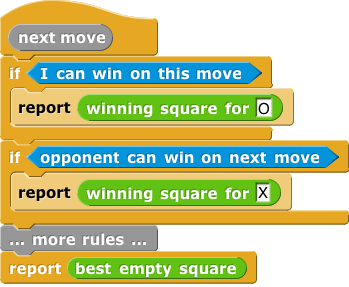
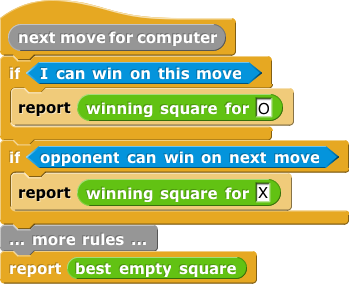
5.4 TG

Changed region(s): [[0.2865, 0.0279, 0.6877, 0.1951], [0.2579, 0.0, 0.2865, 0.0279]]

diff --git a/cur/teaching-guide/U5/lab-pages/4-unsolvable-undecidable-problems.html b/cur/teaching-guide/U5/lab-pages/4-unsolvable-undecidable-problems.html
@@ -8,45 +8,12 @@
     
     <body>
         <h2>Lab 4: Unsolvable and Undecidable Problems</h2>
-		<p>The idea that some problems do not have solutions is credible enough to students, but the idea that some <em>cannot ever have</em> solutions, and that we can prove that, is harder.
-        <div class="todo">
-        <p>We introduce the notion through a slightly different idea at first. Students solve Liar/Truthteller logic puzzles to see that some are tricky but solvable and others set up inherently contradictory situations in which neither true nor false can apply. Then they see the more complex idea: problems for which truth or falsity can apply, but for which the state cannot (ever) be logically determined. Last, they explore the halting problem: Can an algorithm be developed that will check any other algorithm to see if it will halt and return a result?</p>
 		<p>In earlier labs of this unit, we've explored <em>practical</em> limits to computation. In some cases, it's easy to program a simple algorithm for a problem, but the program would take centuries to solve the problem even for not-so-big input values. Students often find that idea easy to understand (although they may not immediately see why an exponential-time algorithm will withstand even dramatic speedups in computer hardware). This lab asks them to understand something harder: that some problems can't be solved, period.</p>
-        </div>
-		That is, students may find it hard to accept that some problems are unsolvable <em>in principle.</em> What if some entirely new model of computation comes along that is not just faster but different in kind, the way quantum computing is different today? Tachyonic computing, or some such thing? (We already know enough about quantum computing to understand that it doesn't influence unsolvability.)</p>
-		<p><strong>Page 1: Logical Inconsistency.</strong></p>
-		<p>It's to address that difficulty that we begin with a detour into logic puzzles&mdash;specifically, liar-and-truthteller puzzles. (The student page uses the slightly awkward "false-teller" to avoid digressions into the psychology of liars, but you might want to look up Martin Gardner's <a href="http://www.worldcat.org/title/hexaflexagons-and-other-mathematical-diversions-the-first-scientific-american-book-of-puzzles-games/oclc/18018285" target="_blank">discussion</a> of the "which way to the village" problem that ends with the delightful suggested question, "Did you know that they're giving away free beer in the village?" You ignore the answer and follow the native.)  In this context, students find the idea of an unanswerable question easier to grasp.</p>
-		<p>But paradox isn't the important thing for students to learn on that first page. (The unsolvable problem presented on the second page isn't paradoxical.) Rather, it's <em><strong>proof by contradiction</strong></em> that's important. Gamal explains this technique in the first dialog. If your students have studied enough algebra, remind them of the proof that &radic;2 isn't a ratio of integers.</p>
-		<p> <strong>Page 2: An Undecidable Problem.</strong></p>
-		<p>The second page starts by introducing Alan Turing. No serious introduction to computer science can avoid discussing Turing, the patron saint of computer science, and arguably the founder of the field. (Why not Babbage and Lovelace? Because computer science isn't about the design and construction of computers; it's about a general understanding of what computers can accomplish. That's what Turing, along with the less-well-known Alonzo Church, started.)</p>
-		<p>The story of how Turing enabled the Allied victory against the Nazis is thrilling and engaging. It's told, among other sources, in the book <em>Alan Turing: The Enigma</em> by Andrew Hodges. (The link also gives information about other resources on Turing.) Researching Turing's life could be a good extra credit assignment that doesn't involve programming.  Students may also be interested in Joan Clarke, the only woman among the Bletchley Park mathematicians. (The code breakers also employed a large number of women in more clerical positions.)</p>
-		<p>The student page does <em>not</em> go into the end of  Turing's life: He was hounded to death by an ungrateful British government because of his homosexuality. We omit that part of the story because we're aware that there are parts of the United States where even teaching evolution is considered controversial. But if you are lucky enough to teach in an environment that will allow it, we urge you to make his sentencing to chemical castration because of social intolerance part of the classroom discussion.</p>
-		<p><strong>The Halting Theorem</strong></p>
-		<p>In 1928, mathematician David Hilbert posed the "decision problem," asking whether any statement in certain mathematical theories (in the sense of formal axiom systems, not "things we don't know for sure") can be proven true or false. (This is <em>not</em> one of the numbered list of problems Hilbert famously posed in 1900 as tasks for the coming century.) Turing's work was motivated in large part by this problem; his insight was that to solve the problem, he would need a way to describe what "can be" done effectively. In short, he had to invent the idea of an algorithm. He did this with what is now called the <em>Turing machine,</em> a kind of computer too primitive to be of practical use, but just for that reason, simple enough to reason about.</p>
-		<p>Turing's 1936 paper was truly remarkable. Not only did he come up with the idea of effective algorithms, he also had to invent the idea that a computer program (the concrete representation of an algorithm) is also data, on which the computer can operate.</p>
-		<p>(Turing was actually anticipated, slightly, by Alonzo Church, the patron saint of Snap<em>!</em>, who developed a very different formalization, namely the <em>lambda calculus,</em> the  study of functions as data. It's Church's work that led to John McCarthy's invention of the Lisp programming language and to the functional programming style central to BJC. Turing is better known than Church partly because of his war work, but also because the imperative, sequential programming style is more widely understood than functional programming. This is just starting to change because of the importance of functional programming to parallel computation.)</p>
-		<p><strong>Proving the Halting Theorem</strong></p>
-		<p>As suggested above, we use proof by contradiction to show that a certain question can't be answered <em>in general:</em> Will a certain computer program, given a certain input, report a result in a finite amount of time?</p>
-		<p>
-        	The "in general" part is important. Of course we can answer the question for certain particular programs. This one halts for any input:<br />
-        	<img class="indent" src="/bjc-r/img/5-algorithms/three-fn.png" alt="three(x) reports 3">
-        </p>
-		<p>
-            This one never halts for any input:<br />
-            <img class="indent" src="/bjc-r/img/5-algorithms/loop-fn.png" width="158" height="137" alt="loop(x): forever [wait 1 secs]">
-        </p>
-		<p>
-            And this one halts (reports a value) for any input except 87:<br />
-            <img class="indent" src="/bjc-r/img/5-algorithms/weird-fn.png" width="158" height="222" alt="weird(x): if (x=87) then forever [wait 1 secs]; report 3">
-        </p>
-		<p>The question is whether we can devise a test that will tell us whether <em>any</em> given function will report a value for <em>any</em> given input. To make a proof by contradiction, we start by supposing that there is such a <code>halts?</code> function. Then we show that there has to be at least one function, and one input to that function, for which <code>halts?</code> fails: If we call <code>halts?</code> with the function <code>tester</code> as both the function to be tested and the input to give that function, any result reported by <code>halts?</code> will be wrong.</p>
-		<p>Showing that the result has to be wrong involves a case analysis like the ones used to solve the logic puzzles on page 1. Suppose <code>halts?</code> reports <code>True</code>, telling us that <code>tester(tester)</code> succeeds at reporting a value. Then <code>tester</code> takes the first branch of the <code>if</code>, and so it loops forever. (We used <code>repeat until</code> to create the infinite loop, but that's not important; it could just be <code>forever</code> as in the pictures above.) Thus <code>halts?</code> gave the wrong answer. Now suppose instead that <code>halts?</code> reports <code>False</code>, thereby claiming that <code>tester(tester)</code> loops forever. But in that case, <code>tester</code> takes the <code>else</code> branch, and reports <code>True</code>. (Don't be confused; it doesn't matter <em>what</em> value <code>tester</code> reports, just that it reports <em>some</em> value. But it <em>does</em> matter what value <code>halts?</code> reports.)</p>
-		<p>The proof is much easier for us than it was for Turing, because we have the advantage of an advanced programming language that allows procedures to be used as input values! What Turing had to work with was a particularly simple-minded machine language, encoded in the ones and zeros some people like so much. He had to work out how to encode a program, and then how to write <em>another</em> program that could examine the first one. Church's proof of the Halting Theorem looked much more like ours than like Turing's, because he had, and bequeathed to us, a notation for functions of functions.</p>
-<!--		<p>Some problems  look like they should have clear and definitive yes/no or true/false answers but, in actuality, don't. In simple cases, the lack of a definitive answer is the result of a paradox, and students can complete the proof to show that the "answer" doesn't exist because the statement is <em>neither</em> true <em>nor</em> false. But situations also exist in which it <em>could</em> be either, but we don't know which. Those fall into two categories. Computational problems can be so difficult that no solution <em>has</em> been found, but it's not clear that no solution<em> could</em> potentially be found some day. Others have been shown to be undecidable: we can prove that we will <em>never</em> have a way to solve the problem. </p>
+
+	<p>Students may find it hard to accept that some problems are unsolvable <em>in principle.</em> What if some entirely new model of computation comes along that is not just faster but different in kind, the way quantum computing is different today? &quot;Tachyonic computing,&quot; or some such thing? (We already know enough about quantum computing to understand that it doesn't influence unsolvability.)<!--		<p>Some problems  look like they should have clear and definitive yes/no or true/false answers but, in actuality, don't. In simple cases, the lack of a definitive answer is the result of a paradox, and students can complete the proof to show that the "answer" doesn't exist because the statement is <em>neither</em> true <em>nor</em> false. But situations also exist in which it <em>could</em> be either, but we don't know which. Those fall into two categories. Computational problems can be so difficult that no solution <em>has</em> been found, but it's not clear that no solution<em> could</em> potentially be found some day. Others have been shown to be undecidable: we can prove that we will <em>never</em> have a way to solve the problem. </p>
 		<p>As an introduction to this challenging content, students solve Liar/Truthteller logic puzzles to see that some are tricky but solvable, and others set up inherently contradictory situations in which neither T nor F can apply. They also explore the halting problem—can an algorithm be developed that will check <em>any</em> other algorithm to see if it will halt and return a result—to appreciate solvable vs. unsolvable and undecidable problems.</p>  
-        -->
- 
-        <h3>Pacing:</h3>
+        -->    </p>
+	<h3>Pacing:</h3>
 		<div>
 			The 2 lab pages could be split across 2-4 days (<strong>70-140 minutes</strong>). Expected times to complete follow:
 			<ul>
@@ -58,33 +25,87 @@
         <h3>Lab Pages</h3>
 		<div>
 			<ul>
-				<li>
-					<strong>Page 1: Logical Inconsistency.</strong>
-					<ul>
-						<!--<li>
+			  <li>
+				<strong>Page 1: Logical Inconsistency.</strong></li>
+				
+			  <ul>
+			    <!--<li>
 							<strong>Learning Goals:</strong>
 							<ul>
 								<li></li>
 								<li></li>
 							</ul>
 						</li>-->
-						<li><strong>Tip:</strong> The logic puzzles can be done in small groups, but have a whole-class discussion at the end to be sure everyone understands the idea of proof by contradiction.</li>
-					</ul>
-				</li>
-                <li>
-					<strong>Page 2: An Undecidable Problem.</strong>
-					<ul>
-						<!--<li>
-							<strong>Learning Goals:</strong>
-							<ul>
-								<li></li>
-								<li></li>
-							</ul>
-						</li>-->
-						<li><strong>Tip:</strong> The second page will mostly reading and discussion; by the nature of a proof by contradiction, there are no other examples students can try individually.</li>
-					</ul>
-				</li>
-			</ul>
+			    <li><strong>Learning goals:</strong>
+			      <ul>
+			        <li>Students will understand and be able to use <em>proof by contradiction.</em></li>
+			        <li>In particular, they will be able to solve liar/truthteller logic puzzles.</li>
+		          </ul>
+			    </li>
+			    <li><strong>Tips:</strong> 
+			      <ul>
+			        <li>There's nothing about computers or algorithms on this page, but don't lose sight of why it's here: In order to understand page 2, which<em> is</em> about algorithms, they need not to be thrown by proof by contradiction.</li>
+			        <li>Students solve Liar/Truthteller logic puzzles to see that some are tricky but solvable and others set up inherently contradictory situations in which neither true nor false can apply. Then they see the more complex idea: problems for which truth or falsity can apply, but for which the state cannot (ever) be logically determined. In this context, students find the idea of an unanswerable question easier to grasp.</li>
+			        <li>Paradox <em>isn't</em> the important thing for students to learn on this page. (The unsolvable problem presented on the second page isn't paradoxical.) Rather, it's <em><strong>proof by contradiction</strong></em> that's important. Gamal explains this technique in the first dialog. If your students have studied enough algebra, remind them of the proof that &radic;2 isn't a ratio of integers.</li>
+			        <li>The student page uses the slightly awkward "false-teller" to avoid digressions into the psychology of liars, although <em>you'll</em> enjoy Martin Gardner's <a href="http://www.worldcat.org/title/hexaflexagons-and-other-mathematical-diversions-the-first-scientific-american-book-of-puzzles-games/oclc/18018285" target="_blank">discussion</a> of the "which way to the village" problem that ends with the delightful suggested question, "Did you know that they're giving away free beer in the village?" You ignore the answer and follow the native.</li>
+			        <li>The logic puzzles can be done in small groups, but have a whole-class discussion at the end to be sure everyone understands the idea of proof by contradiction.</li>
+		          </ul>
+			    </li>
+		      </ul>
+		      <li><strong>Page 2: An Undecidable Problem.</strong>
+	            <ul>
+	              <li><strong>Learning goals:</strong>
+                    <ul>
+                      <li>Students will understand that some computational problems can't ever be solved, no matter how good the computers become.</li>
+                      <li>Specifically, students will understand that the Halting Problem is one that can't be solved, and will understand that we can <em>prove</em> that.</li>
+                      <li>Students will appreciate that Turing proved this theorem at a time when practical computers barely existed, and that that was a huge advance in human understanding.</li>
+                    </ul>
+	              </li>
+	              <li><strong>Tips about Alan Turing:</strong>
+	                <ul>
+	                  <li>The second page starts by introducing Alan Turing. No serious introduction to computer science can avoid discussing Turing, the patron saint of computer science, and arguably the founder of the field. 
+	                    <ul>
+	                      <li><small>Why not Babbage and Lovelace? They're very important, too, but they weren't able to build the Analytical Engine, and so their ideas were largely forgotten until Turing reinvented them in a different form. Also. computer science isn't about the design and construction of computers; it's about a theoretical understanding of what computers can accomplish. That's what Turing, along with the less-well-known Alonzo Church, started.</small></li>
+                        </ul>
+	                  </li>
+	                  <li>Although it's not directly related to this lab, the story of how Turing enabled the Allied victory against the Nazis is thrilling and engaging. It's told, for example, in the book <a href="http://www.turing.org.uk/book/" target="new"><em>Alan Turing: The Enigma</em></a> by Andrew Hodges. (The link also gives information about other resources on Turing.) Researching Turing's life could be a good extra credit assignment that doesn't involve programming.  Students may also be interested in Joan Clarke, the only woman among the Bletchley Park mathematicians. (The code breakers also employed a large number of women in more clerical positions.)</li>
+<div class="comment">Yes, Mary, we <em>must</em> say this, and we <em>must</em> say "we" in this context.</div>
+	                  <li>The student page does <em>not</em> go into the end of  Turing's life: He was hounded to death by an ungrateful British government because of his homosexuality. We omit that part of the story because we're aware that there are parts of the United States where even teaching evolution is considered controversial. But if you are lucky enough to teach in an environment that will allow it, we urge you to make his sentencing to chemical castration because of social intolerance part of the classroom discussion.	                  </li>
+                    </ul>
+	              </li>
+	              <li><strong>Tips about the Halting Theorem:</strong></li>
+	              <ul>
+                    <li>The second page involves mostly reading and discussion; by the nature of a proof by contradiction, there are no concrete examples students can try individually.</li>
+                    <li style="background-color: #FFF8AD;"><a href="#hint-hilbert" data-toggle="collapse">Click for some historical background.</a>
+            <div id="hint-hilbert" class="collapse"><p>In 1928, mathematician David Hilbert posed the "decision problem," asking whether any statement in certain mathematical theories (in the sense of formal axiom systems, not "things we don't know for sure") can be proven true or false. (This is <em>not</em> one of the numbered list of problems Hilbert famously posed in 1900 as tasks for the coming century.) Turing's work was motivated in large part by this problem; his insight was that to solve the problem, he would need a way to describe what "can be" done effectively. In short, he had to invent the idea of an algorithm. He did this with what is now called the <em>Turing machine,</em> a kind of thought-experiment computer too primitive to be of practical use, but just for that reason, simple enough to reason about.</p>
+          <p>Turing's 1936 paper was truly remarkable. Not only did he come up with the idea of effective algorithms, he also had to invent the idea that a computer program (the concrete representation of an algorithm) is also data, on which the computer can operate.</p>
+          <p>(Turing was actually anticipated, slightly, by Alonzo Church, the patron saint of Snap<em>!</em>, who developed a very different formalization, namely the <em>lambda calculus,</em> the  study of functions as data. It's Church's work that led to John McCarthy's invention of the Lisp programming language and to the functional programming style central to BJC. Turing is better known than Church partly because of his war work, but also because the imperative, sequential programming style is more widely understood than functional programming. This is just starting to change because of the importance of functional programming to parallel computation.)</p></div></li>
+        <li>We use proof by contradiction to show that the following question can't be answered <em>in general:</em> Will a certain computer program, given a certain input, report a result in a finite amount of time?
+          <ul>
+            <li style="background-color: #FFF8AD;"><a href="#hint-general" data-toggle="collapse">We <em>can</em> answer the question for some <em>specific</em> functions...</a>
+            <div id="hint-general" class="collapse"><p>The "in general" part is important. Of course we can answer the question for certain particular programs. This one halts for any input:<br />
+                <img class="indent" src="/bjc-r/img/5-algorithms/three-fn.png" alt="three(x) reports 3"> </p>
+              <p> This one never halts for any input:<br />
+                <img class="indent" src="/bjc-r/img/5-algorithms/loop-fn.png" width="158" height="137" alt="loop(x): forever [wait 1 secs]"> </p>
+              <p> And this one halts (reports a value) for any input except 87:<br />
+                <img class="indent" src="/bjc-r/img/5-algorithms/weird-fn.png" width="158" height="222" alt="weird(x): if (x=87) then forever [wait 1 secs]; report 3"> </p>
+              <p>The question is whether we can devise a test that will tell us whether <em>any</em> given function will report a value for <em>any</em> given input.</p></div></li>
+          </ul>
+        </li>
+        <li>To make a proof by contradiction, we start by supposing that there is such a <code>halts?</code> function. Then we show that there has to be at least one function, and one input to that function, for which <code>halts?</code> fails: If we call <code>halts?</code> with the function <code>tester</code> as both the function to be tested and the input to give that function, any result reported by <code>halts?</code> will be wrong.</li>
+        <li>It's crucial to the proof that the function given as input to <code>halts?</code> takes an input, and that <code>tester</code> is written so that it tests that function <em>with itself as input.</em> It's tempting to leave out the input, but this is how we get the self-reference that leads to a contradiction.</li>
+        <li>Showing that the result has to be wrong involves a case analysis like the ones used to solve the logic puzzles on page 1. Suppose <code>halts?</code> reports <code>True</code>, telling us that <code>tester(tester)</code> succeeds at reporting a value. Then <code>tester</code> takes the first branch of the <code>if</code>, and so it loops forever.  Thus <code>halts?</code> gave the wrong answer. Now suppose instead that <code>halts?</code> reports <code>False</code>, thereby claiming that <code>tester(tester)</code> loops forever. But in that case, <code>tester</code> takes the <code>else</code> branch, and reports <code>True</code>. (Don't be confused; it doesn't matter <em>what</em> value <code>tester</code> reports, just that it reports <em>some</em> value. But it <em>does</em> matter what value <code>halts?</code> reports.)</li>
+        <li>The proof is much easier for us than it was for Turing, because we have the advantage of an advanced programming language that allows procedures to be used as input values! What Turing had to work with was a particularly simple-minded machine language, encoded in the ones and zeros some people like so much. He had to work out how to encode a program, and then how to write <em>another</em> program that could examine the first one. Church's proof of the Halting Theorem looked much more like ours than like Turing's, because he had, and bequeathed to us, a notation for functions of functions. In other words, <em>the proof depends on the fact that</em> <code>tester</code> <em>is a higher order function.</em></li>
+            <li style="background-color: #FFF8AD;"><a href="#hint-set" data-toggle="collapse">If you know any set theory...</a>
+            <div id="hint-set" class="collapse">
+            <p>You 
+                  shouldn't say this to students, but just for your own understanding: There are only countably many computer programs, since a program is a finite string from a finite alphabet. But there are uncountably many functions! So <em>almost all</em> functions are uncomputable.  The halting function is just one example that's easy to describe.</p></div>
+</ul>
+                </ul>
+		      </li>
+	      </ul>
+		  </ul>
+		  
 		</div>       
         
         

diff --git a/cur/programming/5-algorithms/optional-projects/tic-tac-toe-bh.html b/cur/programming/5-algorithms/optional-projects/tic-tac-toe-bh.html
@@ -28,7 +28,7 @@ In Unit 3, they made a program that can detect wins and ties, but doesn't genera
 
 <div class="forYouToDo">
 <ol>
-<li>Play part of a game, and then build and click on each of the following expressions.  Discuss with your partner what the expression does, and what algorithm it uses.  (Edit the block to remind yourself if you're not sure.)
+<li>Play part of a game, and then click on each of the following expressions.  Discuss with your partner what the expression does, and what algorithm it uses.  (Edit the block to remind yourself if you're not sure.)
   <ol type="a">
 <li><img src="/bjc-r/img/5-algorithms/ttt-wins.png" alt="TicTacToe wins"></li>
 <li><img src="/bjc-r/img/5-algorithms/status-winning-triples.png" alt="status of winning triples">
@@ -48,18 +48,18 @@ In Unit 3, they made a program that can detect wins and ties, but doesn't genera
 <li>What's the next most important rule?</li>
 <li>Can you express "If I can win on this move" in more detail, in terms of the current board position, so that you could program it into Snap<em>!</em>?</li>
 </ol></div>
-<p>The if-all-else-fails rule is "If no other rule applies, play in the best possible square: the center (square 5), if it's free, or a corner (squares 1, 3, 7, and 9) as second choice, or an edge (2, 4, 6, 8) as last resort."</p>
+<p>The if-all-else-fails rule is "If no other rule applies, play in some free square.&quot; But not all squares are equally good, so you should program a refinement: Play in the center (square 5), if it's free; or a corner (squares 1, 3, 7, and 9) as second choice; or an edge (2, 4, 6, 8) as last resort."</p>
 <div class="forYouToDo"><ol start="5">
 <li>Why is the center the best choice? Why is a corner second best? You should have a really short, logical, convincing explanation. Compare your explanation with those of other students</li>
 </ol></div>
-<p>These three rules (including the one you answered in question 3 above) are part of everyone's tic-tac-toe strategy, and they are the minimum acceptable strategy for this assignment.  Humans don't always think alike about the in-between rules; we'll make suggestions later, after you finish the minimal assignment.</p>
+<p>These three rules (if you can win on this move, do so; the one you answered in question 3 above; and the just-pick-a-square rule) are part of everyone's tic-tac-toe strategy, and they are the minimum acceptable strategy for this assignment.  But these three rules alone aren't enough to play tic-tac-toe really well. Most players develop additional rules that come after the first two but before the last-resort rule. Human players don't always think alike about those middle rules; we'll make suggestions later, after you finish the minimal assignment.</p>
 <h3>Choosing the Best Move</h3>
 <p>To simplify the project, assume that the human player will always move first (playing X). So the computer is playing O. Make a block <img src="/bjc-r/img/5-algorithms/next-move.png" alt="next move"> that will report the square number (1-9) into which O should move.</p>
 <p><strong>Don't copy this,</strong> but a handwavy approximation to the structure of the block would be</p>
 <img src="/bjc-r/img/5-algorithms/pick-a-move.png" alt="if &lt;I can win on this move&gt; report (winning square for [O]; if &lt;opponent can win on next move&gt; report (winning move for X); ... more rules ... ; report (best empty square)">
 <div class="forYouToDo">
 <ol start="6">
-<li>The <code>won?</code> block works by looking for a triple in which all three slots are O, or all three slots are X. Describe precisely what the slots of a triple will contain if O can win on this move by filling its last square. (There's more than one correct answers to this question, but not very many of them.)</li>
+<li>The <code>won?</code> block works by looking for a triple in which all three slots are O, or all three slots are X. Describe precisely what the slots of a triple will contain if O can win on this move by filling its last square. (There's more than one correct answer to this question, but not very many of them.)</li>
 <li>Write the <img src="/bjc-r/img/5-algorithms/winning-square-for.png" alt="winning square for [ ]"> block. If there is no winning square for the input player, it should report 0. <a href="#hint-triple" data-toggle="collapse">Want a hint?</a>
             <div id="hint-triple" class="collapse">The empty slot can be in any of the three positions.</div>
 </li>
